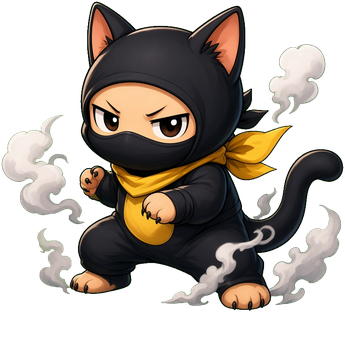
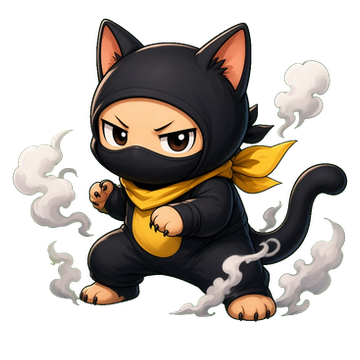
chore(assets): recut 3 monster idles as clean 360×360 squares
Crop baked labels off (no wipe bands), pad to transparent square,
center characters with feet near bottom. Flip illusdemon idle to
face left and drop it from IDLE_MIRROR so battle CSS does not
double-flip. Synced assets/monsters + assets/battle.

diff --git a/src/game.js b/src/game.js
@@ -273,8 +273,8 @@ function bindMonImg(img){
    in battle only — never in the dex, and never a second flip.
    Attack, faces right: lavaover, thundwolf, mtngod, manflower, illusdemon, seaking, sandwyrm, starlord.
    Attack, already left: heidragon, holyturt, deathscorp, ninjacat, steeltiran, icetiran, phoenix, nightmare, galmoth, flamecrab.
-   Idle, faces right: deathscorp, thundwolf, mtngod, manflower, illusdemon, seaking, sandwyrm, starlord.
-   Idle, already left: heidragon, lavaover, holyturt, ninjacat, steeltiran, icetiran, phoenix, nightmare, galmoth, flamecrab. */
+   Idle, faces right: deathscorp, thundwolf, mtngod, manflower, seaking, sandwyrm, starlord.
+   Idle, already left: heidragon, lavaover, holyturt, ninjacat, steeltiran, icetiran, phoenix, nightmare, galmoth, flamecrab, illusdemon. */
 const ATTACK_MIRROR = {
   lavaover:1, thundwolf:1, mtngod:1, manflower:1,
   illusdemon:1, seaking:1, sandwyrm:1, starlord:1
@@ -282,7 +282,7 @@ const ATTACK_MIRROR = {
 /* Idle portraits that face image-right. Same rule: one flip in battle, never in the dex. */
 const IDLE_MIRROR = {
   deathscorp:1, thundwolf:1, mtngod:1, manflower:1,
-  illusdemon:1, seaking:1, sandwyrm:1, starlord:1
+  seaking:1, sandwyrm:1, starlord:1
 };
 /* Empty canvas under the attack-frame feet, as a percent of the image. Drops them onto the ground line. */
 const ATTACK_FOOT = {
@@ -1449,8 +1449,8 @@ function runSelfTest(){
   if(MONS.sandwyrm.name!=='黃泉魔龍') fails.push('sandwyrm name');
   ['heidragon','holyturt','deathscorp','ninjacat','steeltiran','icetiran','phoenix','nightmare','galmoth','flamecrab'].forEach(function(id){ if(ATTACK_MIRROR[id]) fails.push('double flip atk '+id); });
   ['lavaover','thundwolf','mtngod','manflower','illusdemon','seaking','sandwyrm','starlord'].forEach(function(id){ if(!ATTACK_MIRROR[id]) fails.push('need mirror atk '+id); });
-  ['heidragon','lavaover','holyturt','ninjacat','steeltiran','icetiran','phoenix','nightmare','galmoth','flamecrab'].forEach(function(id){ if(IDLE_MIRROR[id]) fails.push('double flip idle '+id); });
-  ['deathscorp','thundwolf','mtngod','manflower','illusdemon','seaking','sandwyrm','starlord'].forEach(function(id){ if(!IDLE_MIRROR[id]) fails.push('need mirror idle '+id); });
+  ['heidragon','lavaover','holyturt','ninjacat','steeltiran','icetiran','phoenix','nightmare','galmoth','flamecrab','illusdemon'].forEach(function(id){ if(IDLE_MIRROR[id]) fails.push('double flip idle '+id); });
+  ['deathscorp','thundwolf','mtngod','manflower','seaking','sandwyrm','starlord'].forEach(function(id){ if(!IDLE_MIRROR[id]) fails.push('need mirror idle '+id); });
   [1,2,3].forEach(function(star){
     const divs=divisionDivisors(star);
     if(star===1 && divs.join(',')!=='2,5,10') fails.push('star1');
